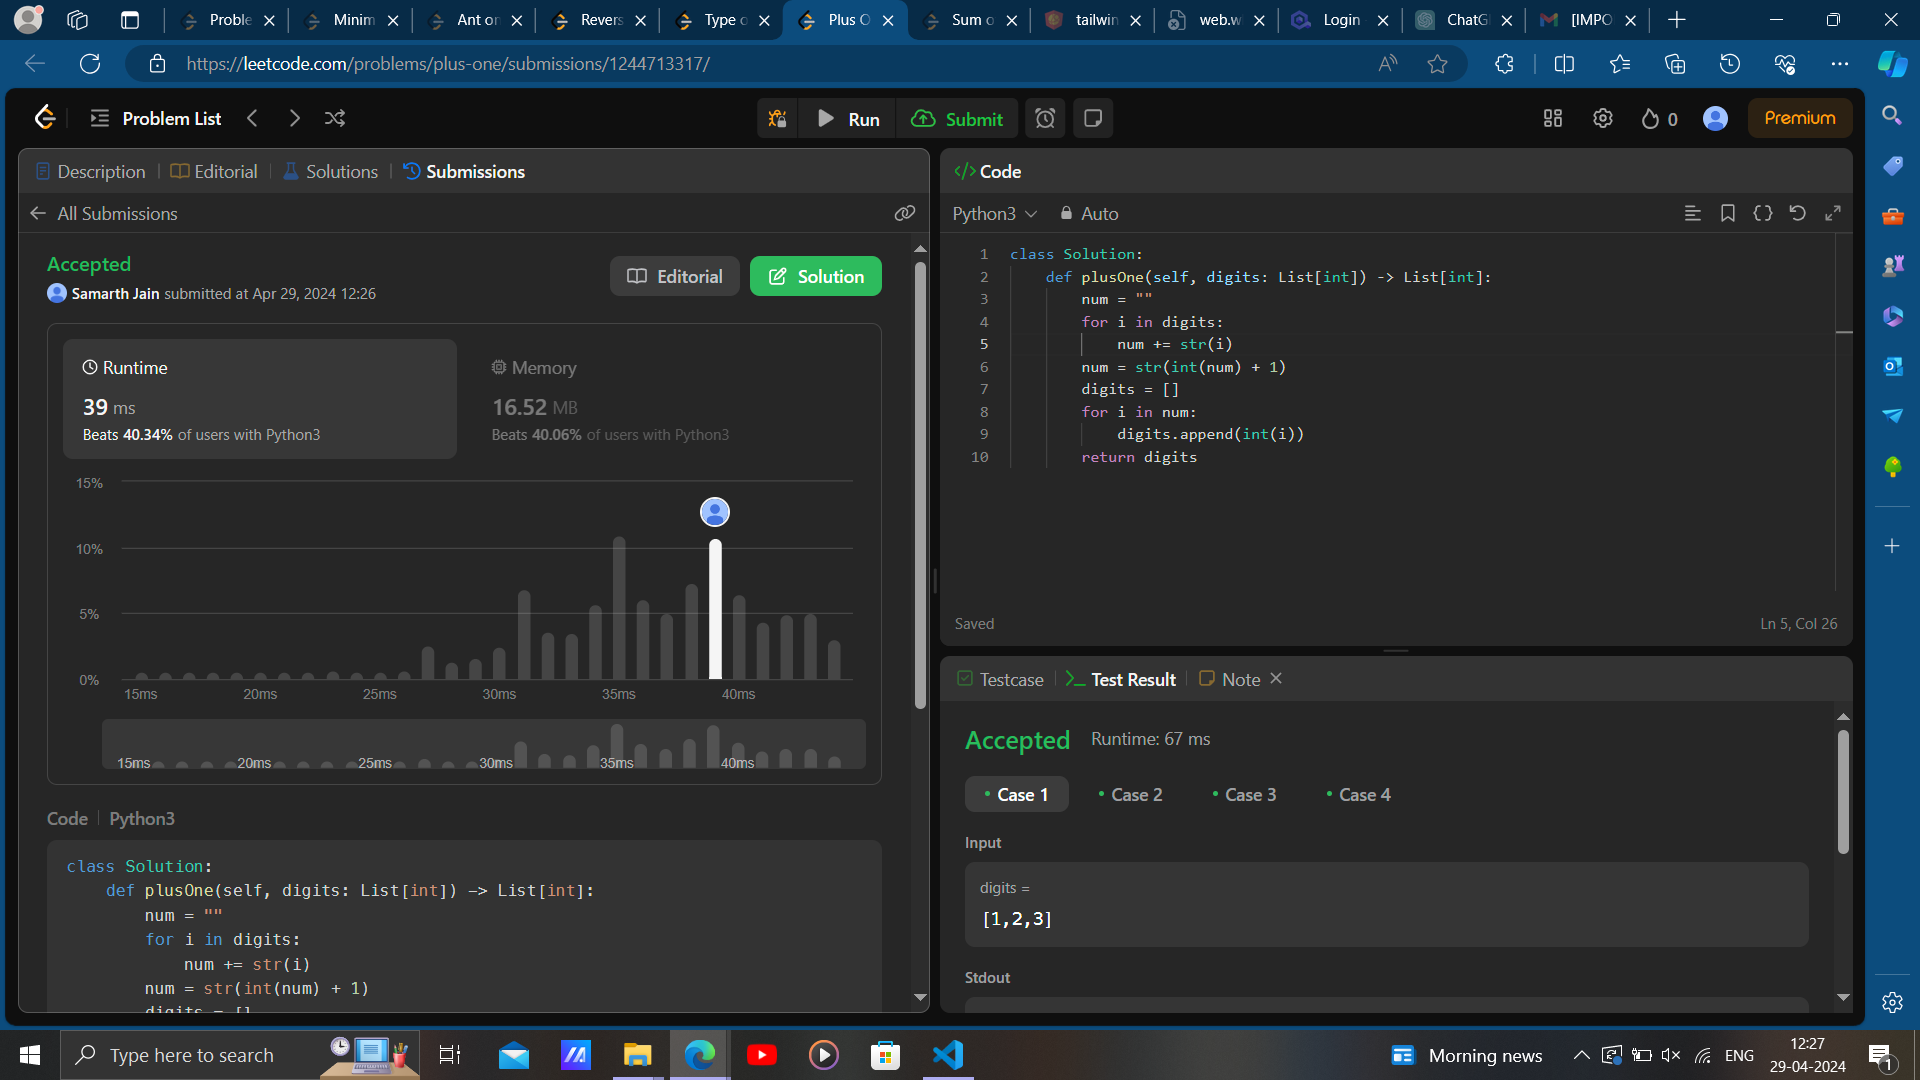
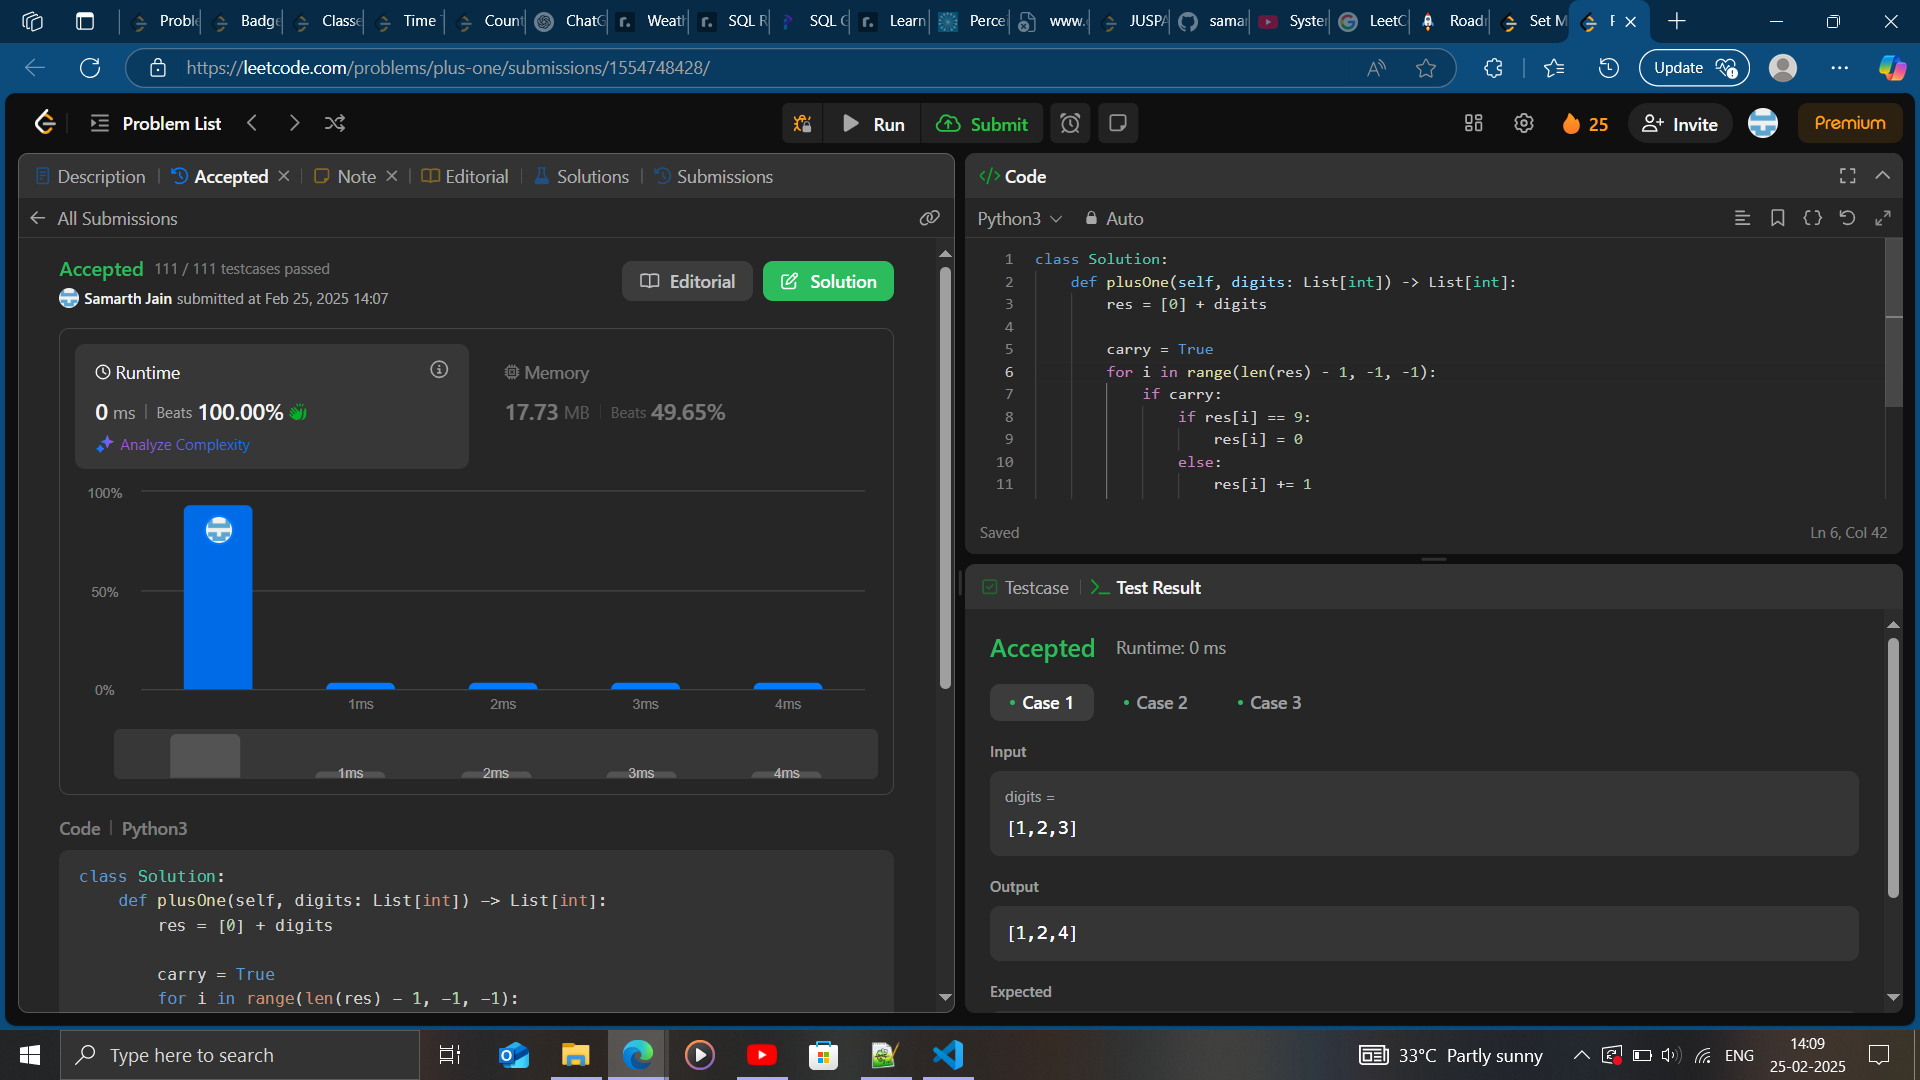
Leetcode-Solutions

diff --git a/Easy/[66] Plus One/[66] Plus One.py b/Easy/[66] Plus One/[66] Plus One.py
@@ -1,16 +1,19 @@
 """
 Accepted
 66 [Easy]
-Runtime: 39 ms, faster than 40.34% of Python3 online submissions for Plus One.
-Memory Usage: 16.52 MB, less than 40.06% of Python3 online submissions for Plus One.
+Runtime: 0 ms, faster than 100.00% of Python3 online submissions for Plus One.
+Memory Usage: 17.73 MB, less than 49.65% of Python3 online submissions for Plus One.
 """
 class Solution:
     def plusOne(self, digits: List[int]) -> List[int]:
-        num = ""
-        for i in digits:
-            num += str(i)
-        num = str(int(num) + 1)
-        digits = []
-        for i in num:
-            digits.append(int(i))
-        return digits
+        res = [0] + digits
+
+        carry = True
+        for i in range(len(res) - 1, -1, -1):
+            if carry:
+                if res[i] == 9:
+                    res[i] = 0
+                else:
+                    res[i] += 1
+                    break
+        return res if res[0] == 1 else res[1 : ]
